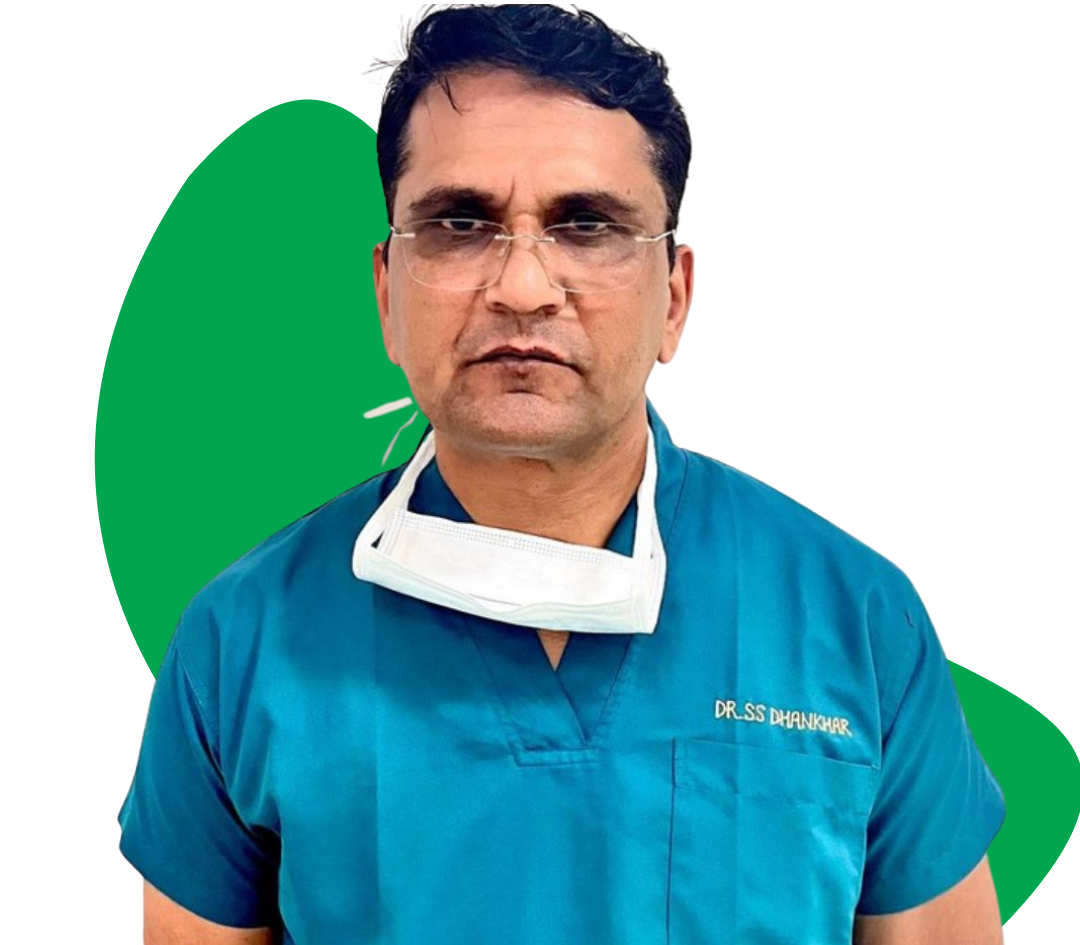
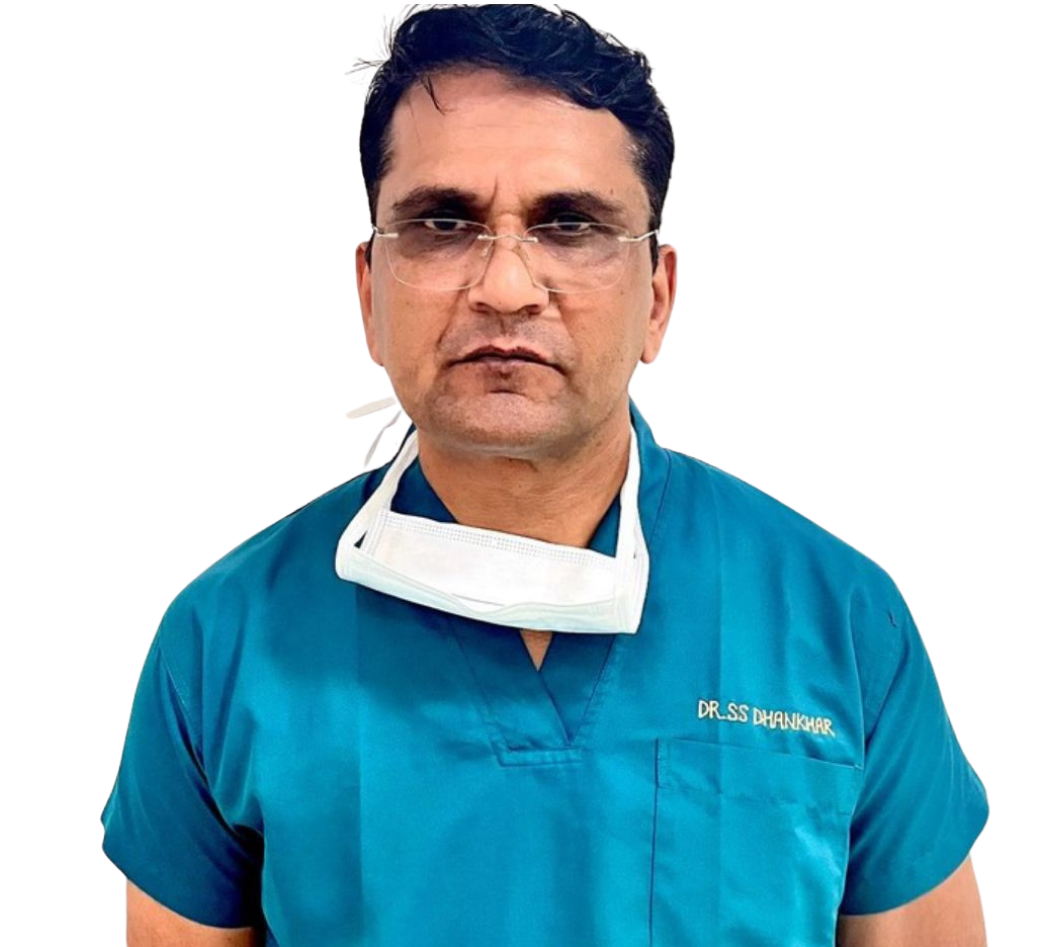
homepage finalized

diff --git a/components/Footer/index.js b/components/Footer/index.js
@@ -1,66 +1,104 @@
-import { socials } from '@/utils/constants';
-import React from 'react'
-import { FaBookMedical, FaHouse, FaLocationArrow, FaLocationPin, FaMap, FaMapLocation, FaPhone, FaRightLeft } from 'react-icons/fa6'
+import { socials } from "@/utils/constants";
+import React from "react";
+import {
+  FaBookMedical,
+  FaHouse,
+  FaLocationArrow,
+  FaLocationPin,
+  FaMap,
+  FaMapLocation,
+  FaPhone,
+  FaRightLeft,
+} from "react-icons/fa6";
 import { IoMail } from "react-icons/io5";
 
 const Footer = () => {
   return (
-    <div className='flex md:flex-row flex-col gap-4 justify-between lg:px-32 px-16 p-2 py-12 bg-background '>
-      <div className='flex flex-col gap-6 md:w-1/3'>
+    <div className="flex md:flex-row flex-col gap-4 justify-between lg:px-32 px-16 p-2 py-12 bg-background ">
+      <div className="flex flex-col gap-6 md:w-1/3">
         {/* logos and connect */}
-        <img src='/logo.png' className='h-12 w-40' alt='fit-future-logo' />
-        <div className='flex items-start gap-4 cursor-pointer hover:scale-110 hover:text-green-dark transition-all duration-300'>
-          <FaMapLocation className='text-6xl text-green-dark' />
-          <p className='flex flex-col font-bold'>
-          <span className='text-lg'>Charkhi Dadri, Haryana</span>
-          <span className='font-semibold'>Khata No.1201, Khatoni No, Loharu Rd, near Jai Hind Health care, Loharu Chowk</span>
+        <img src="/logo.png" className="h-12 w-40" alt="fit-future-logo" />
+        <div className="flex items-start gap-4 cursor-pointer hover:scale-110 hover:text-green-dark transition-all duration-300">
+          <FaMapLocation className="text-6xl text-green-dark" />
+          <p className="flex flex-col font-bold">
+            <span className="text-lg">Charkhi Dadri, Haryana</span>
+            <span className="font-semibold">
+              Khata No.1201, Khatoni No, Loharu Rd, near Jai Hind Health care,
+              Loharu Chowk
+            </span>
           </p>
         </div>
 
-        <div className='flex items-start gap-4 cursor-pointer hover:scale-110 hover:text-green-dark transition-all duration-300'>
-          <IoMail className='text-4xl text-green-dark' />
-          <p className='text-lg font-semibold'>info@fitfuturehealtcare.com</p>
+        <div className="flex items-start gap-4 cursor-pointer hover:scale-110 hover:text-green-dark transition-all duration-300">
+          <IoMail className="text-4xl text-green-dark" />
+          <p className="text-lg font-semibold">info@fitfuturehealtcare.com</p>
         </div>
 
-        <div className='flex items-start gap-4 cursor-pointer hover:scale-110 hover:text-green-dark transition-all duration-300'>
-          <FaPhone className='text-4xl text-green-dark' />
-          <p className='text-lg font-semibold'> (+91) 9876-543-210</p>
+        <div className="flex items-start gap-4 cursor-pointer hover:scale-110 hover:text-green-dark transition-all duration-300">
+          <FaPhone className="text-4xl text-green-dark" />
+          <p className="text-lg font-semibold"> (+91) 9876-543-210</p>
         </div>
       </div>
 
-      <div className='flex flex-col gap-6 text-lg'>
-        <h3 className='font-bold text-xl '>Quick Links</h3>
-        <ul className='flex flex-col gap-2'>
-          <li className='flex gap-6 items-center font-semibold hover:text-green-dark transition-all hover:scale-110 duration-300 cursor-pointer'> <FaHouse className='text-green-dark' /> Home</li>
-          <li className='flex gap-6 items-center font-semibold hover:text-green-dark transition-all hover:scale-110 duration-300 cursor-pointer'> <FaBookMedical className='text-green-dark' /> Specialities</li>
-          <li className='flex gap-6 items-center font-semibold hover:text-green-dark transition-all hover:scale-110 duration-300 cursor-pointer'> <FaRightLeft className='text-green-dark' /> About Us</li>
-          <li className='flex gap-6 items-center font-semibold hover:text-green-dark transition-all hover:scale-110 duration-300 cursor-pointer'> <FaLocationPin className='text-green-dark' /> Location</li>
-          <li className='flex gap-6 items-center font-semibold hover:text-green-dark transition-all hover:scale-110 duration-300 cursor-pointer'> <FaPhone className='text-green-dark' /> Contact Us</li>
+      <div className="flex flex-col gap-6 text-lg">
+        <h3 className="font-bold text-xl ">Quick Links</h3>
+        <ul className="flex flex-col gap-2">
+          <li className="flex gap-6 items-center font-semibold hover:text-green-dark transition-all hover:scale-110 duration-300 cursor-pointer">
+            {" "}
+            <FaHouse className="text-green-dark" /> Home
+          </li>
+          <li className="flex gap-6 items-center font-semibold hover:text-green-dark transition-all hover:scale-110 duration-300 cursor-pointer">
+            {" "}
+            <FaBookMedical className="text-green-dark" /> Specialities
+          </li>
+          <li className="flex gap-6 items-center font-semibold hover:text-green-dark transition-all hover:scale-110 duration-300 cursor-pointer">
+            {" "}
+            <FaRightLeft className="text-green-dark" /> About Us
+          </li>
+          <li className="flex gap-6 items-center font-semibold hover:text-green-dark transition-all hover:scale-110 duration-300 cursor-pointer">
+            {" "}
+            <FaLocationPin className="text-green-dark" /> Location
+          </li>
+          <li className="flex gap-6 items-center font-semibold hover:text-green-dark transition-all hover:scale-110 duration-300 cursor-pointer">
+            {" "}
+            <FaPhone className="text-green-dark" /> Contact Us
+          </li>
         </ul>
       </div>
 
-      <div className='flex flex-col gap-4 items-start justify-start rounded-lg p-4 text-slate-700 ring1 ring-black/25  md:w[400px]' >
-      <p className='font-bold text-xl'>Connect With Us</p>
-        <ul className='flex gap-6'>
-          {
-            socials.map((social,idx) => (
-              <li key={idx} className='hover:scale-125 transition-all duration-500'>
-                <a href={social.link} target='_blank'>
-                <img src={social.img} className='h-6 w-6' />
-                {/* {social.icon} */}
-                </a>
-              </li>
-            ))
-          }
+      <div className="flex flex-col gap-4 items-start justify-start rounded-lg md:p-4 text-slate-700 md:w[400px]">
+         <p className="font-bold text-xl">Find us on Google Maps</p>
+         {/*
+        <ul className="flex gap-6">
+          {socials.map((social, idx) => (
+            <li
+              key={idx}
+              className="hover:scale-125 transition-all duration-500"
+            >
+              <a href={social.link} target="_blank">
+                <img src={social.img} className="h-6 w-6" />
+              </a>
+            </li>
+          ))}
         </ul>
-        <div className='flex gap-2'>
-        <input type='phone' minLength={10} maxLength={13} placeholder='Whatsapp Number' required className='p-2 rounded-full w-[300px]' />
-        <button className='bg-green-dark text-white rounded-full p-2 w-1/3 hover:bg-green-light-1 transition-all duration-300 hover:outline-none focus:outline-none ring-0'>Connect</button>
-        </div>
+        <div className="flex md:flex-row flex-col gap-2">
+          <input
+            type="phone"
+            minLength={10}
+            maxLength={13}
+            placeholder="Whatsapp Number"
+            required
+            className="p-2 rounded-full md:w-[300px]"
+          />
+          <button className="bg-green-dark text-white rounded-full p-2 md:w-1/3 w-2/3 hover:bg-green-light-1 transition-all duration-300 hover:outline-none focus:outline-none ring-0">
+            Connect
+          </button>
+        </div> */}
+        <iframe src="https://www.google.com/maps/embed?pb=!1m14!1m8!1m3!1d14012.896994732744!2d76.2532014!3d28.5930487!3m2!1i1024!2i768!4f13.1!3m3!1m2!1s0x39128f005a64b9b1%3A0x5b3629dfaa352208!2sFit%20Future%20Healthcare%20Multi%20Speciality%20Hospital!5e0!3m2!1sen!2sin!4v1723243944419!5m2!1sen!2sin" className="w-full h-full" loading="lazy" referrerpolicy="no-referrer-when-downgrade"></iframe>
+
       </div>
-      
     </div>
-  )
-}
+  );
+};
 
-export default Footer
+export default Footer;

diff --git a/utils/constants.js b/utils/constants.js
@@ -177,11 +177,18 @@ export const blogs = [
   //   image: "/blog-1.jpg"
   // },
   {
-    title: "Brain Tumor - Warnings, Signs and Symptoms",
-    desc: "Brain tumours can be life-altering, and early detection is crucial for effective treatment. Understanding the warning signs can help in seeking timely medical intervention.",
-    date: "28 July, 2024",
-    image: "/blog-2.png"
+    title: "What is cardiovascular disease?",
+    desc: "Cardiovascular disease is a group of diseases affecting your heart and blood vessels. These diseases can affect one or many parts of your heart and/or blood vessels. A person may be symptomatic (physically experiencing the disease) or asymptomatic (not feeling anything at all).",
+    date: "02 August, 2024",
+    image: "/blog-1.png"
+
   },
+  // {
+  //   title: "Brain Tumor - Warnings, Signs and Symptoms",
+  //   desc: "Brain tumours can be life-altering, and early detection is crucial for effective treatment. Understanding the warning signs can help in seeking timely medical intervention.",
+  //   date: "28 July, 2024",
+  //   image: "/blog-2.png"
+  // },
   // {
   //   title: "Tumour Development and Growth: How They Form, and Characteristics",
   //   desc: "Tumour development and growth are complex processes influenced by many factors within the body. To truly comprehend this intricate phenomenon, it's essential to delve into the science of tumour biology.",
@@ -234,4 +241,24 @@ export const galleryImages = [
   "/gallery/gal-23.png",
   "/gallery/gal-24.png",
   "/gallery/gal-25.png",
+]
+
+export const mobileGallery = [
+  "/gallery/galm-1.png",
+  "/gallery/galm-2.png",
+  "/gallery/galm-3.png",
+  "/gallery/galm-4.png",
+  "/gallery/galm-5.png",
+  "/gallery/galm-6.png",
+  "/gallery/galm-7.png",
+  "/gallery/galm-8.png",
+  "/gallery/galm-9.png",
+  "/gallery/galm-10.png",
+  "/gallery/galm-11.png",
+  "/gallery/galm-12.png",
+  "/gallery/galm-13.png",
+  "/gallery/galm-14.png",
+  "/gallery/galm-15.png",
+  "/gallery/galm-16.png",
+  "/gallery/galm-17.png",
 ]

diff --git a/components/HeroBanner/index.js b/components/HeroBanner/index.js
@@ -9,18 +9,20 @@ const HeroBanner = () => {
     <div className="relative md:h-[50vh] h-[30vh] shadow-lg">
       <img
         src="/banner.webp"
-        className=" md:h-[50vh] h-[30vh] filter brightness-[0.45] w-screen md:object-fit object-cover"
+        className=" md:h-[50vh] h-[30vh] filter brightness[0.45] w-screen md:object-fit object-cover"
       />
       {/* <div></div> */}
-      <div className="absolute inset-0 flex flex-col items-center top-6 justifycenter font-extrabold">
-        <h1 className={`${rubik.className} lg:text-7xl md:text-5xl text-2xl text-center text-green-dark md:w-[700px] w-full`}>
-          SERVING{" "}
-          <span className="text-green-light-1"> HEALTH </span> &
-          <span className="text-green-light-1"> HAPPINESS </span>
+      <div className="absolute inset-0 flex flex-col items-center top-6 justify-center font-bold">
+        <div className="border border-slate-700 rounded-lg p-3 bgwhite/20">
+        <h1 className={`lg:text-5xl md:text-5xl text-2xl text-center text-green-light-1 `}>
+          Serving Health and Happiness
+          {/* <span className="text-green-light-1"> HEALTH </span> &
+          <span className="text-green-light-1"> HAPPINESS </span> */}
         </h1>
-        <h2 className={`p-4 gradient-text md:text-5xl text-lg ${rubik.className}`}>TODAY. TOMMORROW. ALWAYS.</h2>
+        <h2 className={`text-green-light-1 md:text-3xl text-lg text-center`}>Today. Tommorrow. Always.</h2>
+        </div>
         
-        <div className="mt-8 md:-ml-16">
+        <div className="mt-8 md:-ml16">
           <SearchBar />
         </div>
         <div className="mt-4">

diff --git a/components/Services/index.js b/components/Services/index.js
@@ -7,10 +7,10 @@ const OurServices = () => {
         <h1 className='text-green-light-1 text-2xl font-bold'> OUR SERVICES </h1>
         <h3 className='-mt-6 text-xl text-slate-800 italic font-extrabold uppercase md:text-left text-center'>Best specialists services for you</h3>
 
-        <div className='grid lg:grid-cols-6 md:grid-cols-3 grid-cols-2 gap-8'>
+        <div className='grid lg:grid-cols-6 md:grid-cols-3 grid-cols-2 md:gap-8 gap-4'>
             {
                 ourServices.map((service, idx) => (
-                    <div key={idx} className='hover:scale-110 transition-all duration-500 flex flex-col gap-4 items-center justify-center h-[200px] w-[200px] bg-transparent isolate rounded-lg shadow-xl text-white hover:bg-background ring-1 ring-black/5'>
+                    <div key={idx} className='hover:scale-110 transition-all duration-500 flex flex-col gap-4 items-center justify-center h-[200px] md:w-[200px] w-[180px] bg-transparent isolate rounded-lg shadow-xl text-white hover:bg-background ring-1 ring-black/5'>
                         <img src={service.icon} className='h-16 w-16' />
                         <p className='text-green-dark font-bold text-lg'>{service.title.toUpperCase()}</p>
                     </div>

diff --git a/components/Gallery/index.js b/components/Gallery/index.js
@@ -1,5 +1,5 @@
 "use client";
-import { blogs, galleryImages } from "@/utils/constants";
+import { blogs, galleryImages, mobileGallery } from "@/utils/constants";
 import React, { useEffect, useRef, useState } from "react";
 import Slider from "react-slick";
 import "slick-carousel/slick/slick.css";
@@ -112,10 +112,11 @@ const Gallery = ({
           <FaArrowRight />
         </button>
         {/* )} */}
+        <div className="md:block hidden">
         <Slider
           ref={sliderRef}
           {...settings}
-          className=""
+          
         >
           {galleryImages.map((project, idx) => (
             <div
@@ -126,6 +127,22 @@ const Gallery = ({
             </div>
           ))}
         </Slider>
+        </div>
+        <div className="md:hidden block">
+        <Slider
+          ref={sliderRef}
+          {...settings}
+          
+        >
+          {mobileGallery.map((project, idx) => (
+            <div
+              key={idx}
+            >
+              <img src={project} className="md:w-[80vw] w-full md:h-[600px] h-[400px]" />
+            </div>
+          ))}
+        </Slider>
+        </div>
       </div>
     </div>
   );

diff --git a/components/SearchBar/index.js b/components/SearchBar/index.js
@@ -32,28 +32,10 @@ export default function SearchBar() {
       />
       <button
         // onClick={handleSearch}
-        className="w-1/5 bg-green-light-1 text-white p-2 hover:bg-green-dark rounded-lg focus:outline-none transition-colors duration-300"
+        className="md:w-1/5 bg-green-light-1 text-white p-2 hover:bg-green-dark rounded-lg focus:outline-none transition-colors duration-300"
       >
         Search
       </button>
     </div>
-    // <Box sx={{ display: 'flex', flexWrap: 'wrap' }} >
-    //   <div>
-
-    //     <FormControl onSubmit={() => handleFormSubmit()} sx={{ m: 1, width: '100ch' }} className="bg-white rounded-lg" variant="outlined">
-    //       <InputLabel htmlFor="" className='text-green-light-1'>Search for doctor...</InputLabel>
-    //       <OutlinedInput
-    //         id="outlined-adornment-password"
-    //         endAdornment={
-    //           <InputAdornment position="end">
-
-    //           </InputAdornment>
-    //         }
-    //         label=""
-    //       />
-    //     </FormControl>
-
-    //   </div>
-    // </Box>
   );
 }

diff --git a/components/DoctorCarousel/index.js b/components/DoctorCarousel/index.js
@@ -5,7 +5,7 @@ import React from 'react'
 const DoctorCarousel = ({ doctor, idx }) => {
   return (
     <div className={`flex flex-col gap-2 p-2 shadow-xl ${idx !== 1 && 'shadow-green-light-1'} border rounded-lg`}>
-      <img src={doctor.img} alt="doctor-image" className='h-72 w-full object-fit rounded-lg' />
+      <img src={doctor.img} alt="doctor-image" className='h-72 w-72 object-contain rounded-lg hover:scale-110 transition-all duration-500' />
       <div className='px-4 py-2'>
         <div className='flex justify-between items-center'>
           <p className='font-bold text-lg'>{doctor.name}</p>
